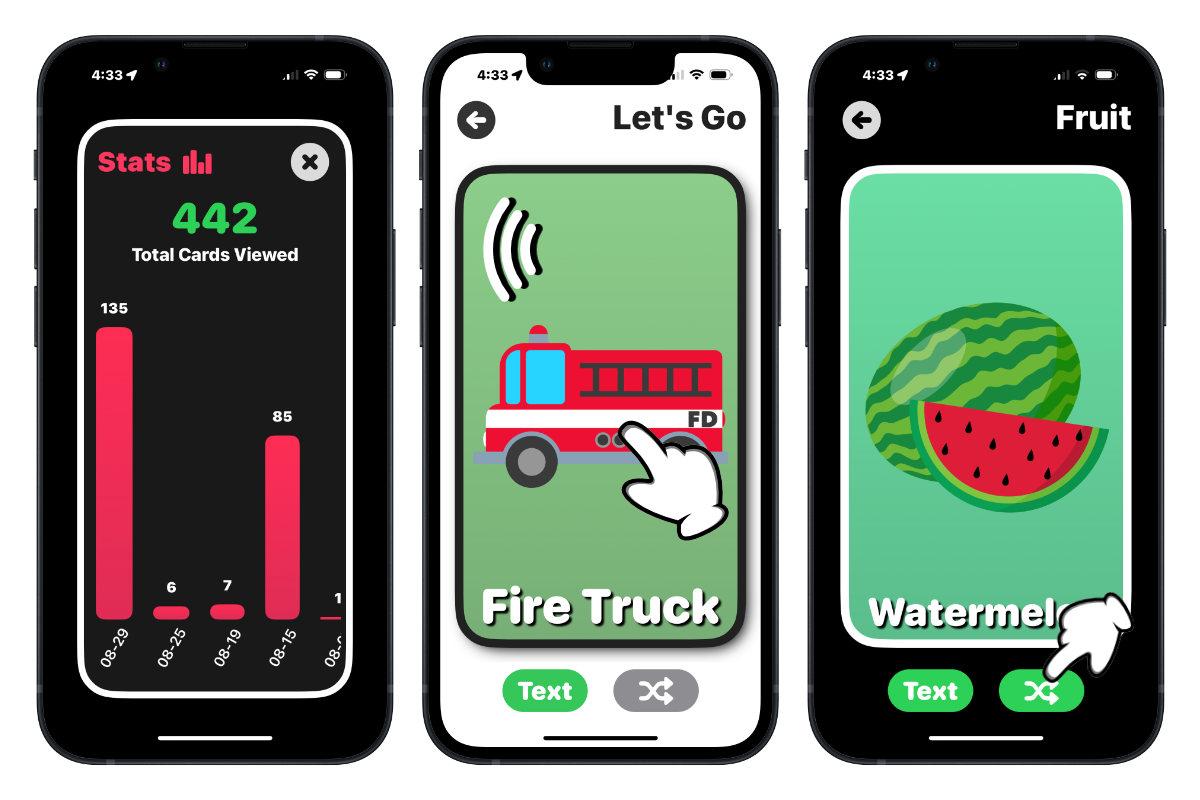
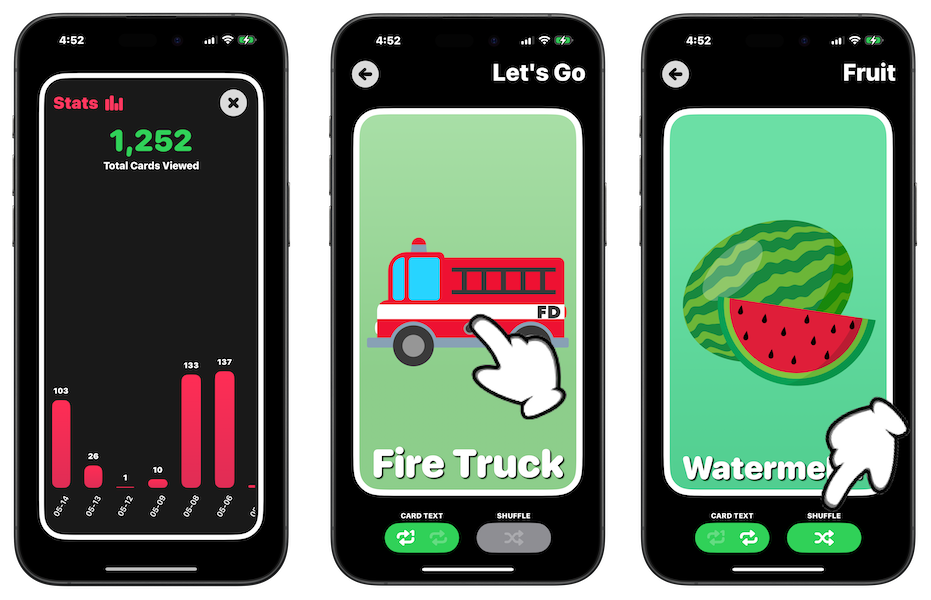
Updates for New Learning Decks 24.5

diff --git a/learningdecks/index.html b/learningdecks/index.html
@@ -51,24 +51,24 @@
       <!-- Game -->
       <img class="d-block mx-auto mb-1 img-fluid" src="/images/learning-decks-hero.png" alt="" width="400">
       <h3 class="fw-bold">Learning Decks</h3>
-      <p>Help your child learn.</p>
+      <p>Help your child learn with 23 Decks and over 600 cards.</p>
       
       <a href="https://apps.apple.com/us/app/learning-decks/id1619514935" target="_blank" rel="noopener noreferrer" role="button" ><img class="mb-5" src="../images/download-appstore-black.png" width="150"></a>
     
       <!-- Decks -->
       <img class="d-block mx-auto mb-1 img-fluid" src="/images/learning-decks-decks.png" alt="" width="400">
-      <h3 class="fw-bold">20 Learning Decks</h3>
-      <p class="mb-5">Learn Numbers, Letters, Shapes, Animals, Colors and more.</p>
+      <h3 class="fw-bold">23 Learning Decks</h3>
+      <p class="mb-5">Learn Numbers, Letters, Shapes, Animals, Colors, Addition, Sight Words and more.</p>
       
       <!-- Cards -->
       <img class="d-block mx-auto mb-1 img-fluid" src="/images/learning-decks-cards.png" alt="" width="400">
-      <h3 class="fw-bold">300+ Cards</h3>
-      <p class="mb-5">There are over 300 colorful and fun cards to learn.</p>
+      <h3 class="fw-bold">600+ Cards</h3>
+      <p class="mb-5">Wow! There are over 600 colorful, fun and exciting cards to learn.</p>
 
       <!-- Stats and More -->
       <img class="d-block mx-auto mb-1 img-fluid" src="/images/learning-decks-stats-more.png" alt="" width="400">
       <h3 class="fw-bold">Stats, Speech & more</h3>
-      <p class="mb-5">Show progress with a bar chart. Tapping a card will speak the name. Randomize the card order. Supports light and dark mode.</p>
+      <p class="mb-5">Show progress with a bar chart. Tapping a card will speak the card text. Shuffle the card order. Supports light and dark mode.</p>
       
     </div>
 
